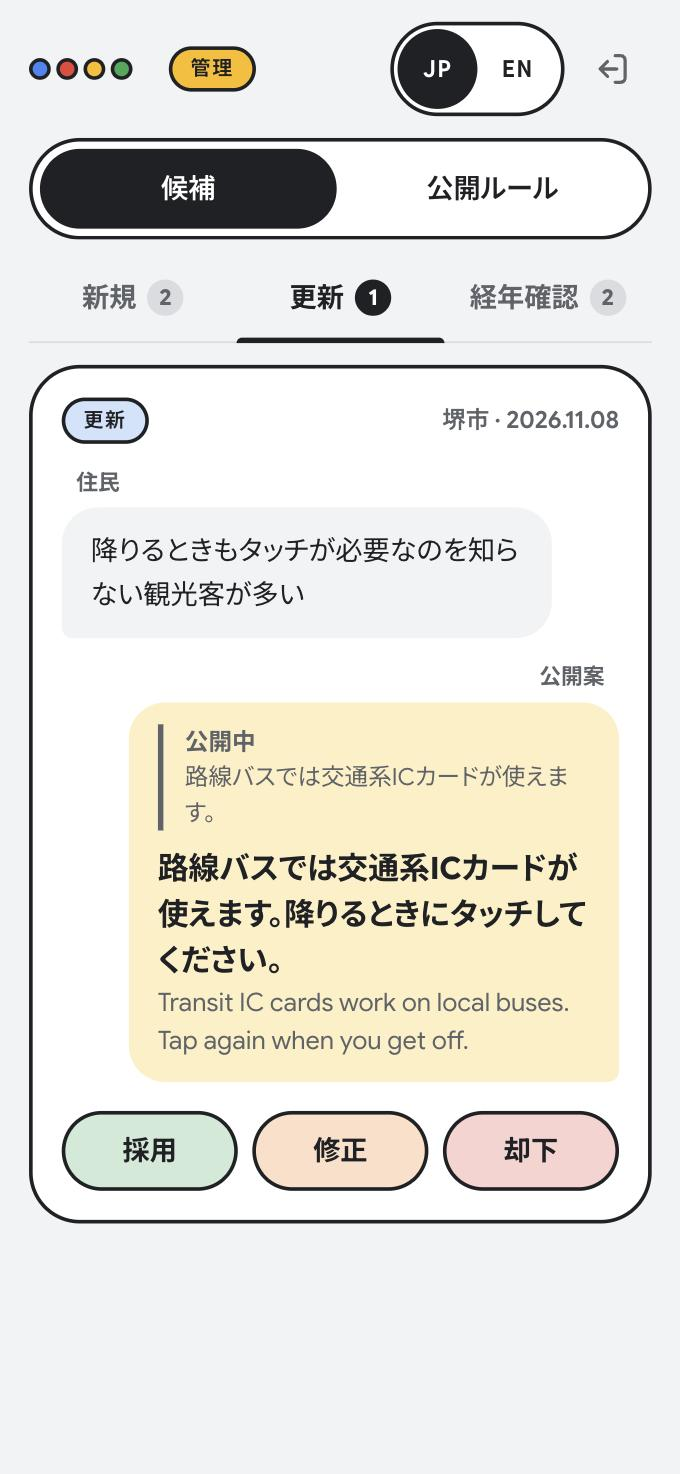
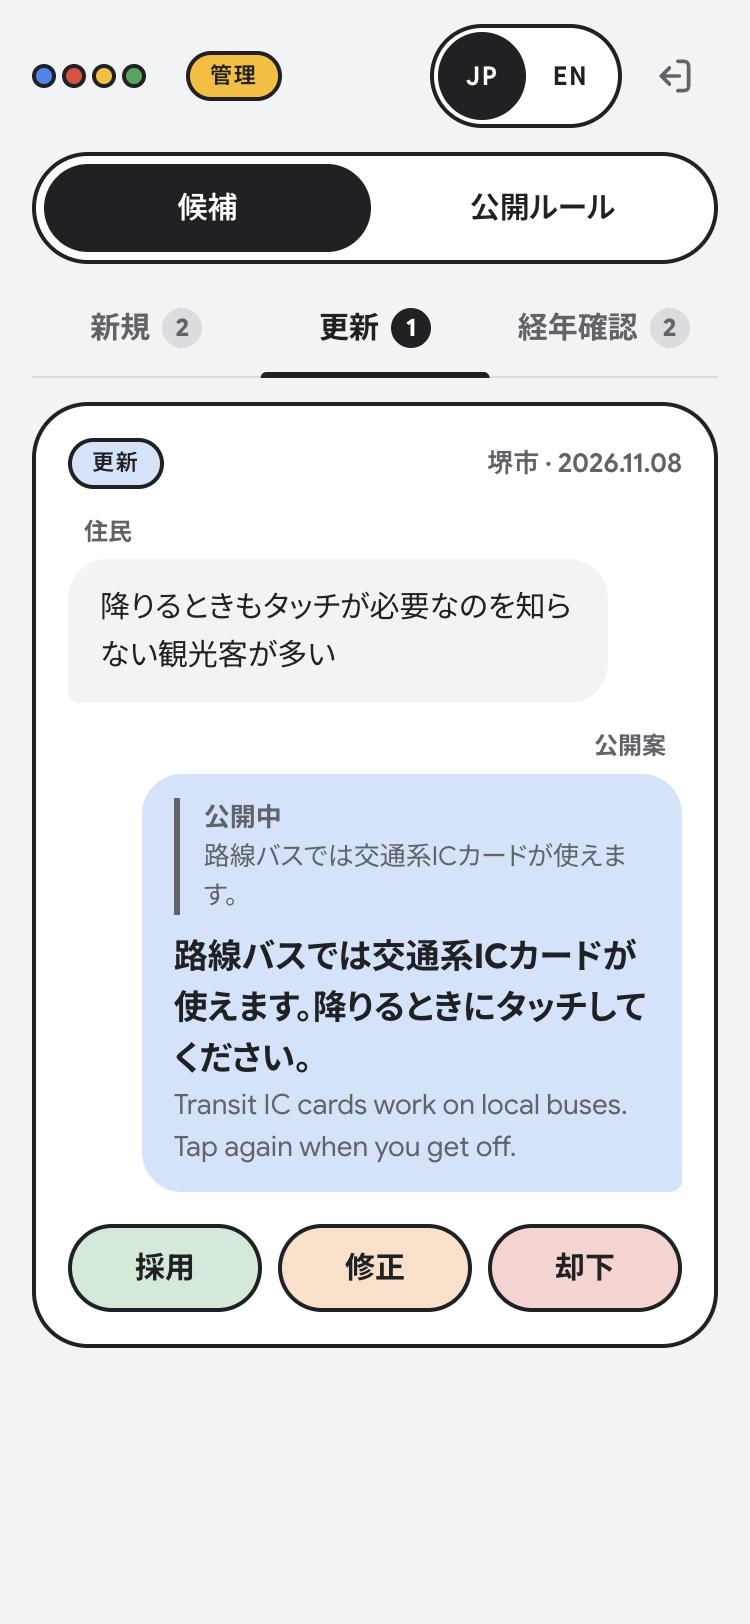
Make draft chat bubbles light blue
Keeps drafts apart from the yellow re-check notes; update notes and screenshots.

diff --git a/frontend/React/src/components/CandidateCard.module.css b/frontend/React/src/components/CandidateCard.module.css
@@ -63,7 +63,7 @@
 
 .message[data-from="draft"] .bubble {
   width: 100%;
-  background: var(--g-yellow-light);
+  background: var(--g-blue-light);
   border-radius: 20px 20px 6px;
 }
 

diff --git a/frontend/React/docs/design/README.md b/frontend/React/docs/design/README.md
@@ -65,7 +65,7 @@ Routes: `/admin` (sign-in), `/admin/candidates?type=add|update|review`, `/admin/
 - **Header.** One pill switch only: 候補 / 公開ルール. The candidate filters 新規 (add), 更新 (update), 経年確認 (re-check) are flat tabs with pending counts and a sliding underline; they roll down under the switch on 候補 and roll away on 公開ルール. Sign out is an icon (named ログアウト / Sign out for screen readers), so the row does not shift when the language changes. Decisions and counts are kept while switching between the two views.
 - **Each card reads as a short chat**, so it stays compact:
   - the resident (住民) on the left: their post and place, nothing else (their "why" is left out; the worry says enough);
-  - the draft rule (公開案) on the right: the UI language in bold, the other language small beneath. When it would replace a live rule, that rule is quoted at the top like a chat reply (公開中);
+  - the draft rule (公開案) on the right, in a light blue bubble (so it never mixes with the yellow re-check notes): the UI language in bold, the other language small beneath. When it would replace a live rule, that rule is quoted at the top like a chat reply (公開中);
   - a re-check reason is a centred system note, like a chat's date line. For a re-check the right bubble is the live rule itself, so it is labelled 公開中.
 - Region and date sit top right in Google Sans Flex; no section labels or dividers.
 - **Actions** are three equal pills in one row, colour-coded and without icons: 採用 / 問題なし (green), 修正 (orange), 却下 (red); English: Approve / Still OK, Edit, Reject. They follow the #24 proposal:
